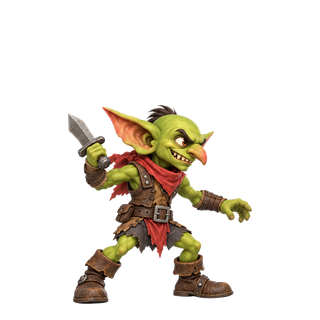
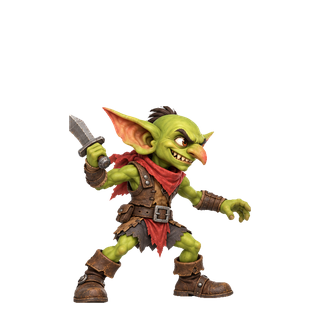
Clean action frame edges and preserve transparent limb gaps

diff --git a/scripts/pack-goblin-actions.py b/scripts/pack-goblin-actions.py
@@ -24,10 +24,15 @@ for name,source,keep,scale in [('idle','idle',range(4),.36),('attack','attack',r
     frames=[]
     for i in keep:
         y0,x0,y1,x1,k=bodies[i]
-        mask=ndi.binary_fill_holes(labels[y0:y1,x0:x1]==k)
+        mask=ndi.binary_closing(labels[y0:y1,x0:x1]==k,iterations=2)
+        mask=ndi.binary_erosion(mask,iterations=1)
         # White gaps between limbs remain transparent; preserve enclosed metal highlights.
         alpha=Image.fromarray((mask*255).astype('uint8')).filter(ImageFilter.GaussianBlur(.45))
-        im=Image.fromarray(a[y0:y1,x0:x1]).convert('RGBA');im.putalpha(alpha)
+        rgb=a[y0:y1,x0:x1].copy()
+        core=ndi.binary_erosion(mask,iterations=2)
+        _,nearest=ndi.distance_transform_edt(~core,return_indices=True)
+        rgb[~core]=rgb[nearest[0][~core],nearest[1][~core]]
+        im=Image.fromarray(rgb).convert('RGBA');im.putalpha(alpha)
         im=im.resize((round(im.width*scale),round(im.height*scale)),Image.Resampling.LANCZOS)
         if im.width>304 or im.height>304:raise ValueError(f'{name} frame too large')
         frame=Image.new('RGBA',(320,320))
